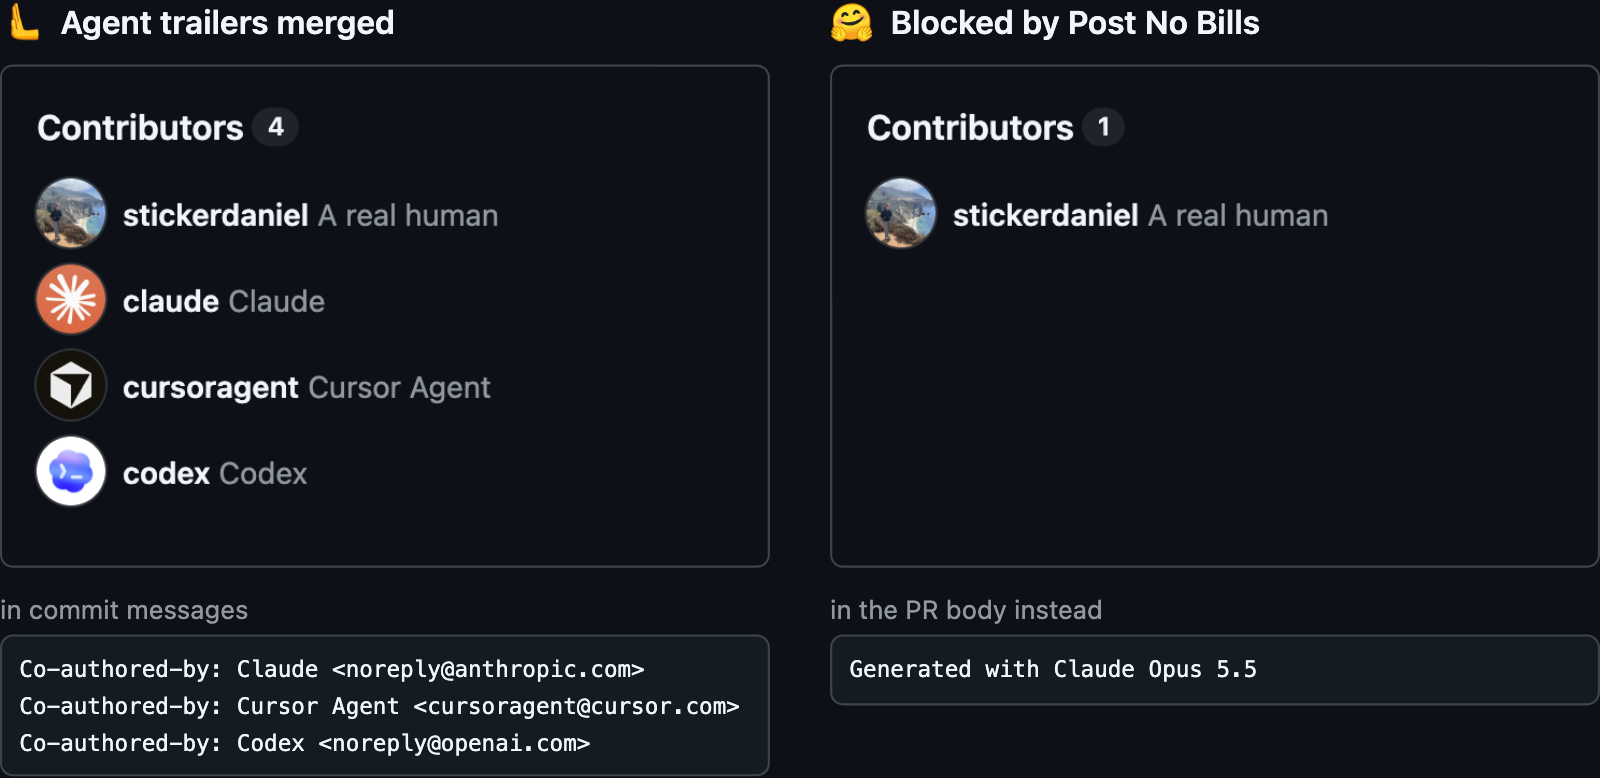
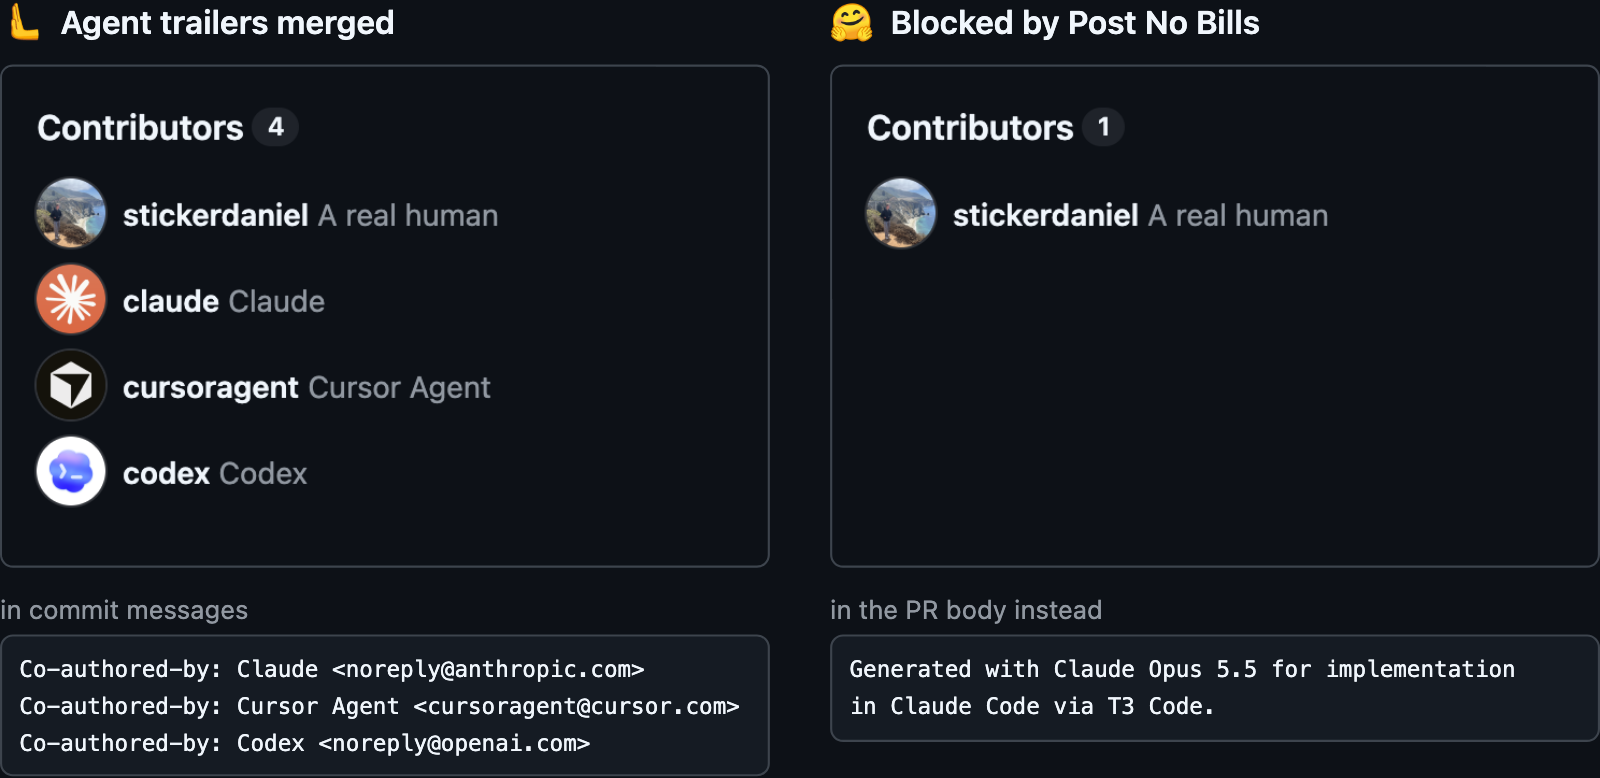
docs: Show the full disclosure line in the image

Changed region(s): [[0.7812, 0.8329, 0.9375, 0.8946], [0.5312, 0.8946, 0.7812, 0.9254], [0.9688, 0.8946, 1.0, 0.9563]]

diff --git a/README.md b/README.md
@@ -9,7 +9,7 @@ Agents write the code, people sign it. Models are disclosed in the PR body.
 <p>
 <picture>
   <source media="(prefers-color-scheme: dark)" srcset="docs/hero-dark.png">
-  <img alt="Left, agent trailers merged: the Contributors list shows 4, stickerdaniel, claude, cursoragent and codex, after commit messages with Co-authored-by trailers for Claude, Cursor Agent and Codex. Right, blocked by Post No Bills: the list shows only stickerdaniel, and the PR body ends with Generated with Claude Opus 5.5." src="docs/hero-light.png" width="800">
+  <img alt="Left, agent trailers merged: the Contributors list shows 4, stickerdaniel, claude, cursoragent and codex, after commit messages with Co-authored-by trailers for Claude, Cursor Agent and Codex. Right, blocked by Post No Bills: the list shows only stickerdaniel, and the PR body ends with Generated with Claude Opus 5.5 for implementation in Claude Code via T3 Code." src="docs/hero-light.png" width="800">
 </picture>
 </p>
 
